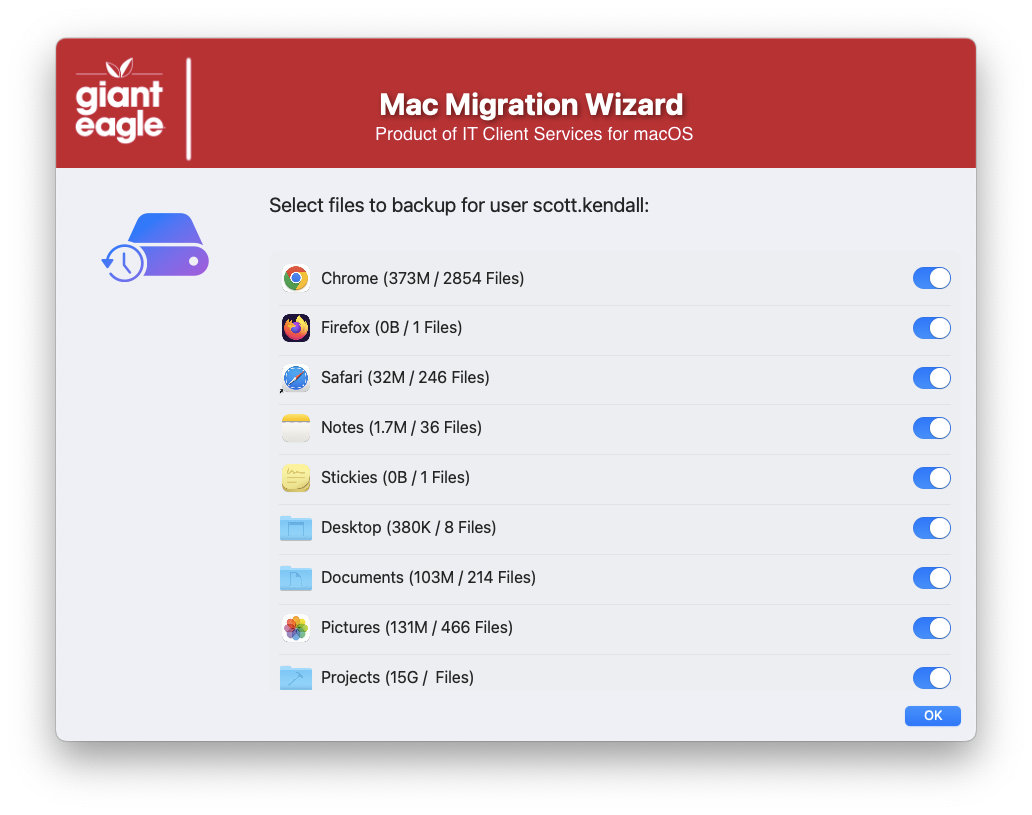
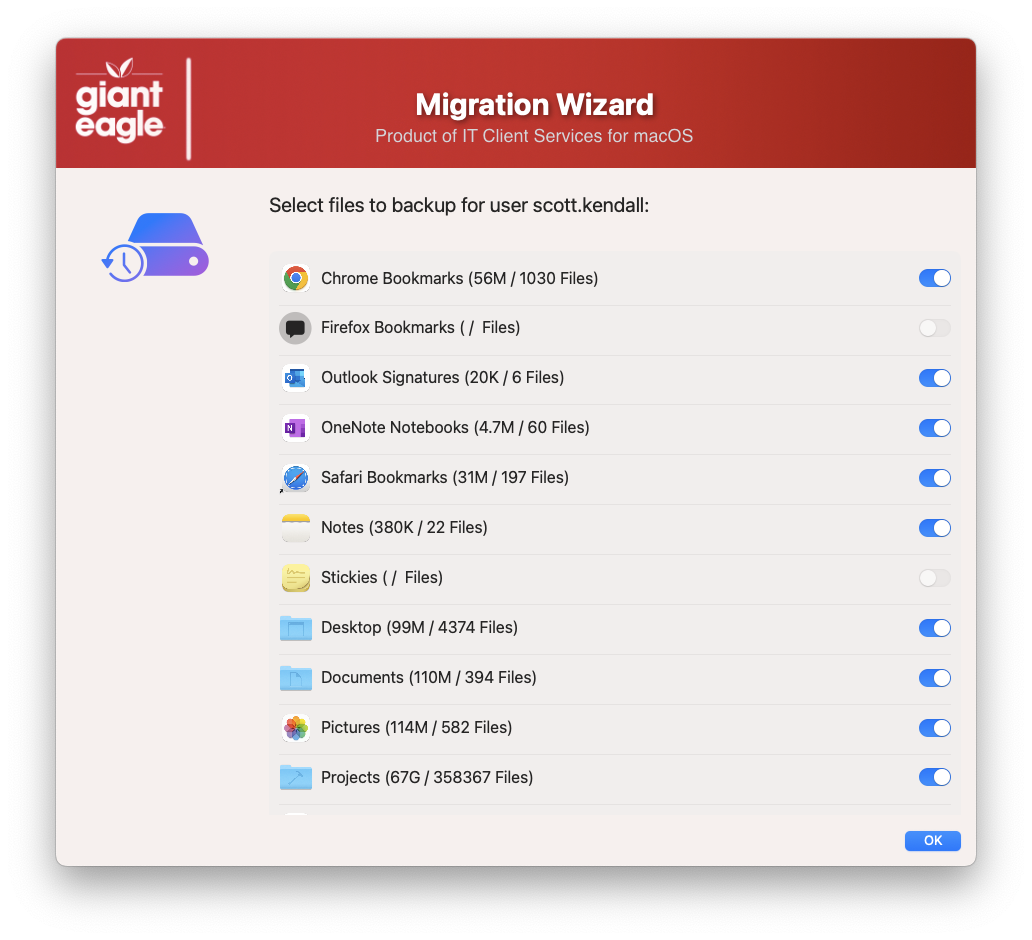
Non Admin method of doing backup/restore on user files

Changed region(s): [[0.031, 0.0307, 0.9612, 0.8589], [0.031, 0.2761, 0.9612, 0.9202]]

diff --git a/MigrationWizard/README.md b/MigrationWizard/README.md
@@ -1,18 +1,46 @@
 ## Migration Wizard
 
-This application is strickly a Work In Progress...it can be used in PROD, but same features are not enabled 100% 
-
 In our environment we disable users from being admins, so that also means that you cannot run Appl's Migration Assistant either, so I had to come up with a solution that would work for non-admin users.
-
-![](/MigrationWizard/MigrationWizard-FileChoices.png)
-
-![](/MigrationWizard/MIgrationWizard-SpaceCalc.png)
 
 ![](/MigrationWizard/MigrationWizard-Selection.png)
 
+![](/MigrationWizard/MIgrationWizard-SpaceCalc.png)
+
+![](/MigrationWizard/MigrationWizard-FileChoices.png)
+
 ![](/MigrationWizard/MigrationWizard-Process.png)
+
+Adding or removing items from the migration list is super simple.  Edit the JSON blob (starting at line 996), and add your info in there.  Sample code block:
+
+```{
+"app" : "Chrome Bookmarks",   
+"path" : "'${USER_DIR}'/Library/Application Support/Google/Chrome/",
+"MigrationDir" : "/Google",
+"icon" : "/Applications/Google Chrome.app",
+"size" : "0",
+"files" : "0",
+"ignore" : "Services",
+"choice" : ""},
+```
+
+Breakdown of the JSON code block:
+
+app: -  *verbal description of what is displayed in the GUI window.*  
+path: - *exact subfolder path of the files to be backed up or restored.*  
+MigrationDir: - *The tar filename to store the compressed files to.*  
+icon: - *icon that you want to show in the GUI window.*  
+size: - *set it to 0 - The script will fill this info in.*    
+files: - *set it to 0 - The script will fill this info in.*  
+ignore: - *the name of the directory to ignore during the backup (ie. cache)*  
+choice: - *leave blank - This stores what the user wants to backup or restore*  
+
+This script can support "legacy" networks (SMB) or OneDrive mount points.  If you select OneDrive, it will make sure that OneDrive is installed and running on your local mac.
+
+I put in the logic to use the tar command, but can very easily be adapted to use rsync if necessary.
+
+NOTE: This app makes heavy use of jq binary and it will detect if it is installed or not.  You should create a JAMF policy that can be triggered from this script to install jq if it is not aleady installed (macOS Sonoma or below).
 
 
 ##### _v1.0 - Initial Commit_
-##### _v1.1 - Major code cleanup & documentation / Structred code to be more inline / consistent across all apps_
+##### _v2.0 - rewrite using JSON blobs for all data content_
 
